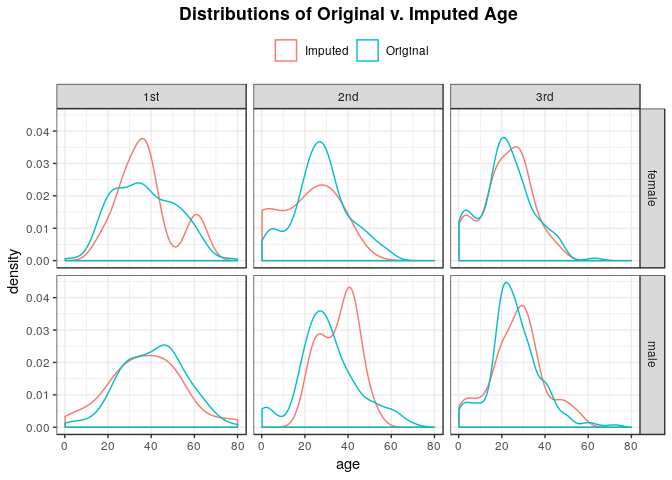
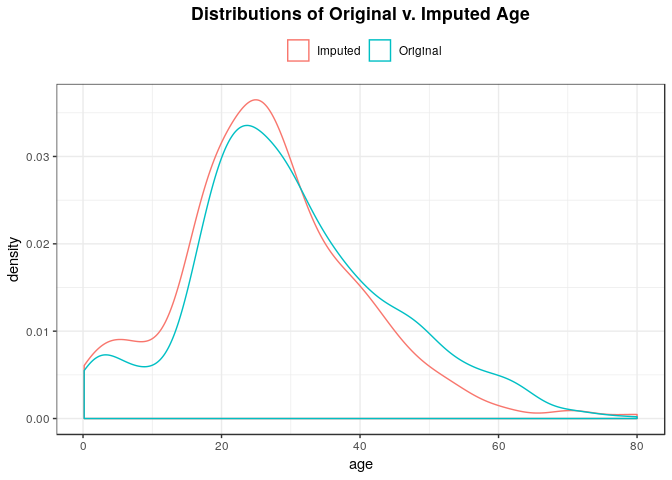
mice

diff --git a/source/Titanic.md b/source/Titanic.md
@@ -1,7 +1,7 @@
 Modeling the Titanic Dataset
 ================
 Jesse Cambon
-20 August, 2018
+21 August, 2018
 
 -   [Exploratory Analysis](#exploratory-analysis)
 -   [Imputation](#imputation)
@@ -22,7 +22,7 @@ library(formattable) # percent format
 library(caret) # regression utilities
 library(Hmisc) # capitalize function
 library(broom) # model display capabilities
-library(xtable) # pretty table
+#library(xtable) # pretty table
 library(knitr)  
 library(kableExtra)
 library(tidyverse)
@@ -124,7 +124,7 @@ ggplot(titanic_miss, aes(x=reorder(group,-perc_missing), y=perc_missing)) +
 Imputation
 ----------
 
-<https://www.analyticsvidhya.com/blog/2016/03/tutorial-powerful-packages-imputing-missing-values/> <https://www.andrew.cmu.edu/user/aurorat/MIA_r.html>
+<https://www.analyticsvidhya.com/blog/2016/03/tutorial-powerful-packages-imputing-missing-values/> <https://www.andrew.cmu.edu/user/aurorat/MIA_r.html> <http://www.gerkovink.com/miceVignettes/Convergence_pooling/Convergence_and_pooling.html>
 
 ``` r
 library(mice)
@@ -142,16 +142,43 @@ library(mice)
     ##     cbind, rbind
 
 ``` r
-# Use mice to impute data
-titanic_imputed <- mice(titanic %>% select(pclass,age,sex), m=10, maxit = 50, method = 'pmm', seed = 13,printFlag=F)
+# Use mice to impute data - takes a few seconds on my laptop
+titanic_imputed <- mice(titanic %>% select(pclass,age,sex), m=10, maxit = 50, method = 'pmm', seed = 3530,printFlag=F)
 
+imp_with <- with(titanic_imputed, lm(age ~ pclass + sex))
+
+pooled <- pool(imp_with)
+
+# check the fit
+summary(pooled)
+```
+
+    ##               estimate std.error  statistic       df      p.value
+    ## (Intercept)  37.023647 0.8928789  41.465473 318.0088 0.000000e+00
+    ## pclass2nd    -9.855947 1.1234681  -8.772787 405.7172 0.000000e+00
+    ## pclass3rd   -14.945784 0.9483567 -15.759665 268.3844 0.000000e+00
+    ## sexmale       3.843549 0.8355924   4.599789 187.5426 5.660992e-06
+
+``` r
 # Add imputed Data
-titanic_imp <- complete(titanic_imputed,3) %>%
+titanic_imp <- complete(titanic_imputed,10) %>%
   bind_cols(titanic %>% select(age,survived) %>% rename(age_orig=age)) %>%
   mutate(imputed=case_when(is.na(age_orig) ~ 'Imputed', TRUE ~ 'Original'))
 
 
 # Plot
+
+ggplot(data=titanic_imp) +
+ geom_density(aes(x=age,color=imputed), alpha=0.8) + 
+  #facet_grid(vars(sex),vars(pclass)) +
+  theme(legend.position='top') +
+    labs(title="Distributions of Original v. Imputed Age") +
+  guides(color=guide_legend(title=''))
+```
+
+![](Titanic_files/figure-markdown_github/imputation-1.png)
+
+``` r
 ggplot(data=titanic_imp) +
  geom_density(aes(x=age,color=imputed), alpha=0.8) + 
   facet_grid(vars(sex),vars(pclass)) +
@@ -160,7 +187,7 @@ ggplot(data=titanic_imp) +
   guides(color=guide_legend(title=''))
 ```
 
-![](Titanic_files/figure-markdown_github/imputation-1.png)
+![](Titanic_files/figure-markdown_github/imputation-2.png)
 
 ``` r
 # titanic_imp <- titanic %>%
